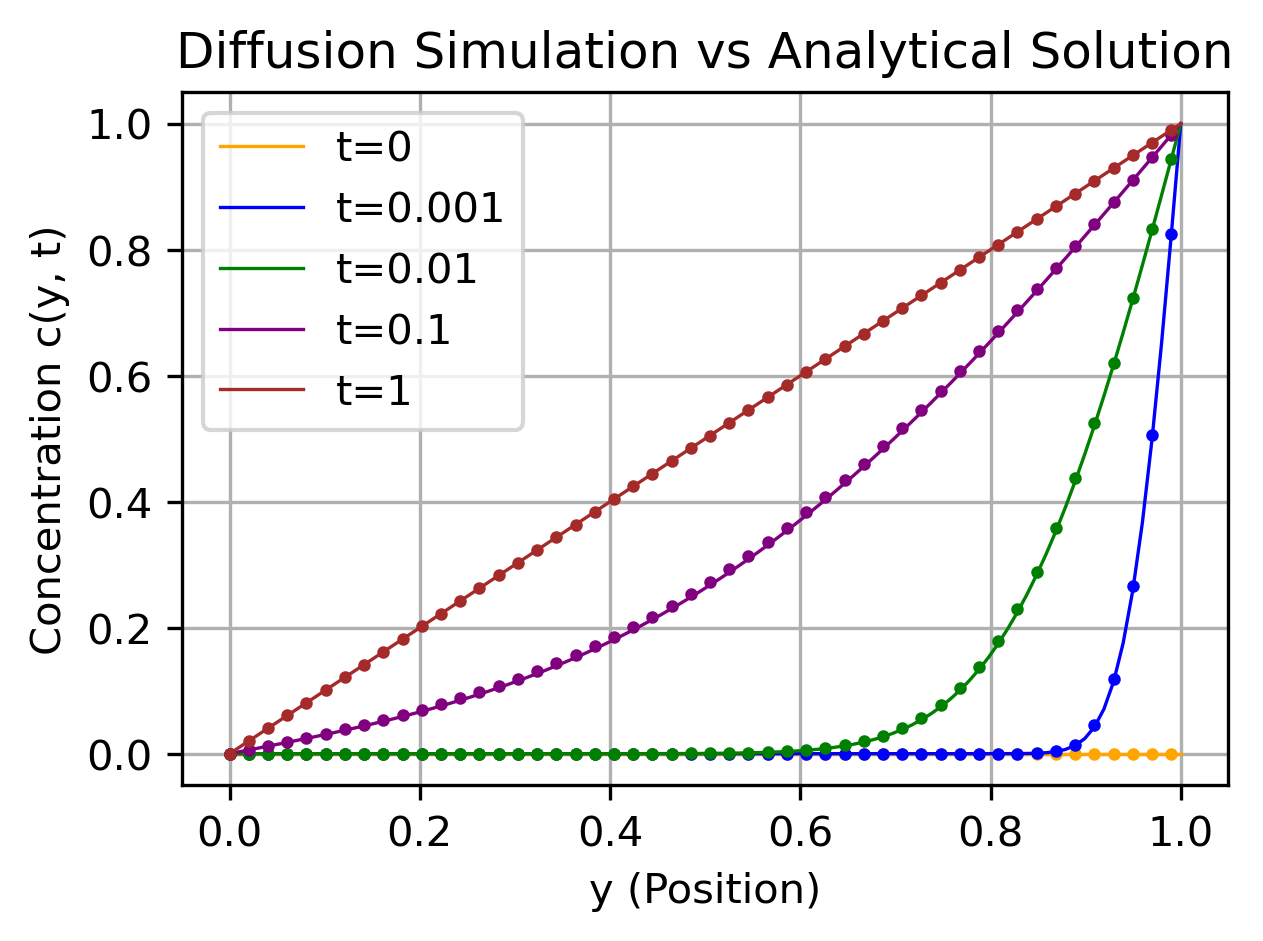
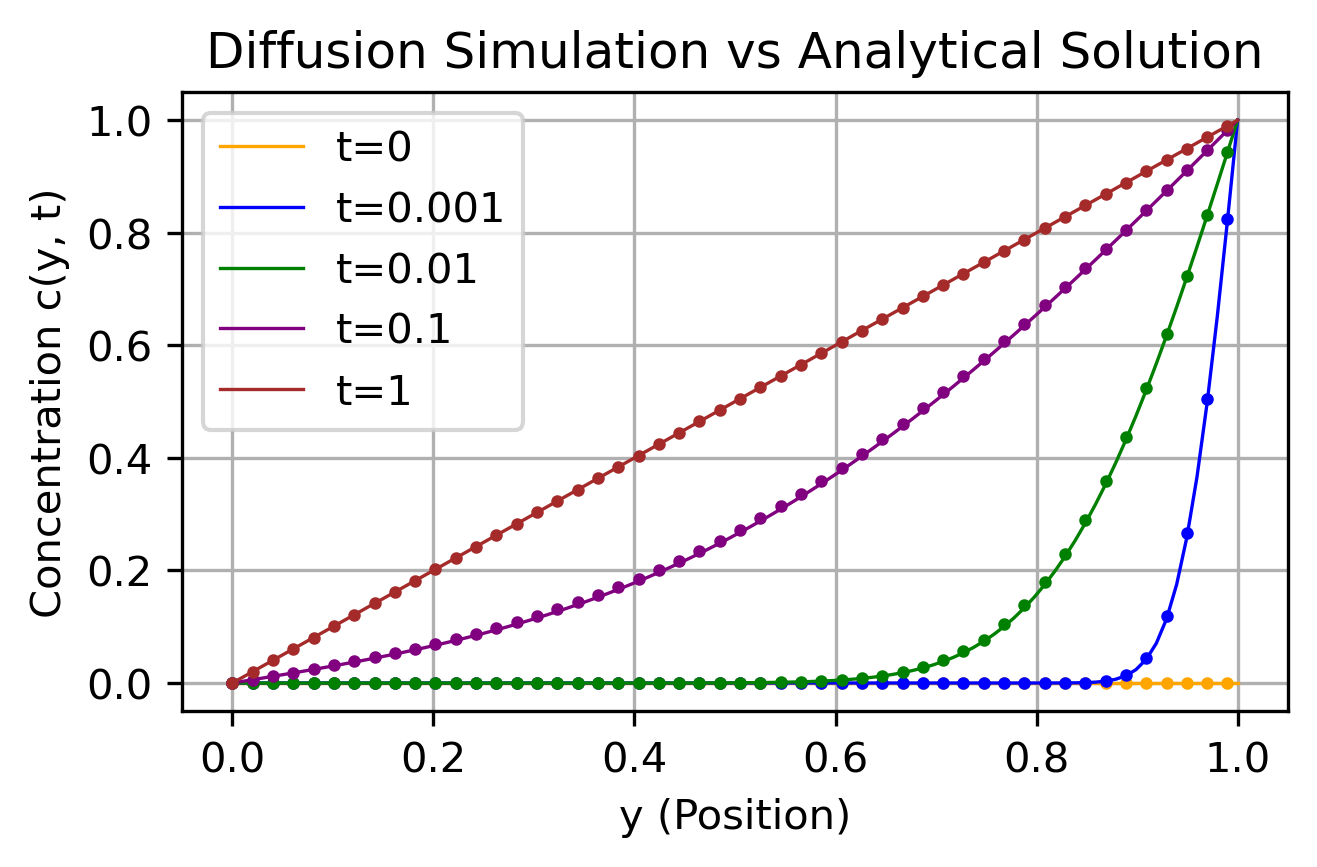
Added error plot

diff --git a/src/visualizations.py b/src/visualizations.py
@@ -10,27 +10,26 @@ from matplotlib.animation import FuncAnimation
 
 
 def visualization_1b(overall_solutions, xs):
-    fig, axs = plt.subplots(1, 3, figsize=(5.3,2.5), sharey=True)
+    fig, axs = plt.subplots(1, 3, figsize=(5.3, 2.5), sharey=True)
 
     for j in range(len(overall_solutions)):
         for k in range(len(overall_solutions[j])):
             axs[j].plot(xs, overall_solutions[j][k], linewidth=0.9)
         axs[j].set_xlabel("x")
-        axs[j].set_title('i'*(j+1))
-   
-    axs[0].set_ylabel(r'$\Psi^n$', labelpad=1)
+        axs[j].set_title("i" * (j + 1))
+
+    axs[0].set_ylabel(r"$\Psi^n$", labelpad=1)
     axs[0].yaxis.set_label_coords(-0.22, 0.5)
 
     fig.suptitle("Wave Time-stepping Approximation")
     plt.tight_layout()
-    plt.subplots_adjust(wspace=0.08, top=0.8) 
+    plt.subplots_adjust(wspace=0.08, top=0.8)
     plt.savefig("plots/fig_1B.png", dpi=300)
     plt.show()
 
 
 def animate_1c(L, N, c, deltat):
-
-    fig, axs = plt.subplots(1, 3, figsize=(5.3,2.5), sharey=True)
+    fig, axs = plt.subplots(1, 3, figsize=(5.3, 2.5), sharey=True)
     # ax.set_title(f"Wave Time-stepping Approximation (frame: 1)")
     # functions = [
     # r"$\sin(2\pi x)$",
@@ -40,15 +39,15 @@ def animate_1c(L, N, c, deltat):
     fig.suptitle("Wave Time-Stepping Animation")
     all_soltjes = []
     for j in range(3):
-        soltjes, xs, deltax = solutions.initialize_wave(j+1, L, N)
+        soltjes, xs, deltax = solutions.initialize_wave(j + 1, L, N)
         all_soltjes.append(soltjes)
-        axs[j].plot(xs, all_soltjes[j][1]) 
+        axs[j].plot(xs, all_soltjes[j][1])
         # axs[j].set_title(functions[j])
-        axs[j].set_title('i'*(j+1))
+        axs[j].set_title("i" * (j + 1))
         axs[j].set_xlabel("x")
-   
-    axs[0].set_ylabel(r'$\Psi$')
-    
+
+    axs[0].set_ylabel(r"$\Psi$")
+
     plt.tight_layout()  # Prevent overlap
     fig.subplots_adjust(top=0.8)  # Move suptitle higher
     plt.pause(1)
@@ -61,63 +60,96 @@ def animate_1c(L, N, c, deltat):
             axs[i].set_xlim(0, L)  # Set x-axis limits
             axs[i].set_ylim(-1, 1)  # Set y-axis limits
             # axs[i].set_title(functions[i])
-            axs[i].set_title('i'*(i+1))
+            axs[i].set_title("i" * (i + 1))
             for _ in range(10):
                 soltjes = solutions.wave_step_function(soltjes, c, xs, deltax, deltat)
             all_soltjes[i] = soltjes
-            axs[i].plot(xs, soltjes[1]) 
+            axs[i].plot(xs, soltjes[1])
             axs[i].set_xlabel("x")
-   
-        axs[0].set_ylabel(r'$\Psi$')
 
-    
+        axs[0].set_ylabel(r"$\Psi$")
+
     animation = FuncAnimation(fig, animate, frames=300, interval=1)
-    animation.save("plots/network_animation10.gif", fps=50,  writer="ffmpeg")
-    plt.show()   
+    animation.save("plots/network_animation10.gif", fps=50, writer="ffmpeg")
+    plt.show()
 
 
-def plot_analytical_solution(y, solutions_vals, times, D):
+def plot_analytical_solution_with_error(y, solution_vals, times, D):
     """
-    Funcion comparing analytical solution to numerical solution. 
-    Plotting points for numerical solution and line for analytical soltution 
+    Funcion comparing analytical solution to numerical solution.
+    Plotting points for numerical solution and line for analytical soltution
     """
     nx = 100
     y_analytic = np.linspace(0.0, 1.0, nx)
 
-    plt.figure(figsize=(4.5, 3))
+    # plt.figure(figsize=(4.5, 3))
+
+    fig1, ax1 = plt.subplots(figsize=(4.5, 3))
+    fig2, ax2 = plt.subplots(figsize=(4.5, 3))
     colors = ["orange", "blue", "green", "purple", "brown"]
 
     for i, t_val in enumerate(times):
         # Analytical
-        c_analytical = [solutions.analytical_solution(yy, t_val, D=D) for yy in y_analytic]
-        plt.plot(y_analytic, c_analytical, color = colors[i], linewidth=0.8, label=f"t={t_val:.3g}")
+        c_analytical = [
+            solutions.analytical_solution(yy, t_val, D=D) for yy in y_analytic
+        ]
+        ax1.plot(
+            y_analytic,
+            c_analytical,
+            color=colors[i],
+            linewidth=0.8,
+            label=f"t={t_val:.3g}",
+        )
 
         c_analytical = np.array(c_analytical)
 
         # mean of the row (should theoretically all be the same)
-        c2D = solutions_vals[i]
-        # c_avg = np.mean(c2D, axis=1)
-        c_first = c2D[:, 0]  
+        c2D = solution_vals[i]
+        c_first = c2D[:, 0]
+        c_first = np.array(c_first)
+
+        # Absolute error
+        pointwise_diff = np.abs(c_first - c_analytical)
 
         # slice array to avoid clutteredness
-        plt.plot(y[::2], c_first[::2], "o", color = colors[i], markersize=2)
+        ax1.plot(y[::2], c_first[::2], "o", color=colors[i], markersize=2)
 
-    plt.xlabel("y (Position)")
-    plt.ylabel("Concentration c(y, t)")
-    plt.legend()
-    plt.title("Diffusion Simulation vs Analytical Solution")
-    plt.grid(True)
-    plt.savefig("plots/diffusion_analytical.png", dpi=300, bbox_inches="tight")
+        ax2.plot(
+            y[::2],
+            pointwise_diff[::2],
+            "o",
+            label=f"t={t_val}",
+            color=colors[i],
+            markersize=2,
+        )
+
+    ax1.set_xlabel("y (Position)")
+    ax1.set_ylabel("Concentration c(y, t)")
+    ax1.legend()
+    ax1.set_title("Diffusion Simulation vs Analytical Solution")
+    ax1.grid(True)
+    fig1.tight_layout()
+    fig1.savefig("plots/diffusion_analytical.png", dpi=300, bbox_inches="tight")
+
+    ax2.set_xlabel("y (Position)")
+    ax2.set_ylabel("Absolute error")
+    ax2.legend()
+    ax2.set_ylim(0, 0.008)
+    ax2.set_title("Error Simulation and Analytical Solution")
+    ax2.grid(True)
+    fig2.tight_layout()
+    fig2.savefig("plots/diffusion_analytical_error.png", dpi=300, bbox_inches="tight")
+
     plt.show()
 
 
 def plot_five_states(all_c, times):
     """
-    function plotting the 2D diffustion grid, 
+    function plotting the 2D diffustion grid,
     5 states for t = 0, 0.001, 0.01, 0.1, 1.0
     """
 
-    # # read in/ generate data 
+    # # read in/ generate data
     # data_file = "2D_diffusion.pkl"
     # create_new_data = False
     # all_c, times = solutions.check_and_parse_data(data_file, create_new_data, parameters)
@@ -125,18 +157,20 @@ def plot_five_states(all_c, times):
     # plot setup
     fig, axs = plt.subplots(2, 3, figsize=(5.8, 4.3), sharex=True, sharey=True)
     fig.suptitle("2D Diffusion at Different t Values")
-    axs = axs.flatten()  
+    axs = axs.flatten()
 
     # Hide the last unused subplot
-    axs[-1].set_visible(False)  
+    axs[-1].set_visible(False)
     for i in range(5):
-        im = axs[i].imshow(all_c[i], cmap="viridis", interpolation="nearest", origin="lower")
+        im = axs[i].imshow(
+            all_c[i], cmap="viridis", interpolation="nearest", origin="lower"
+        )
         axs[i].set_title(f"t = {times[i]}")
-        if i >1: 
+        if i > 1:
             axs[i].set_xlabel("x")
 
     # set proper ticks and labels
-    axs[2].xaxis.set_tick_params(which='both', labelbottom=True)
+    axs[2].xaxis.set_tick_params(which="both", labelbottom=True)
     axs[0].set_ylabel("y")
     axs[3].set_ylabel("y")
 
@@ -144,9 +178,10 @@ def plot_five_states(all_c, times):
     fig.colorbar(im, cax=cbar_ax, label="Concentration")
 
     plt.tight_layout(rect=[0, 0, 0.93, 1])
-    plt.subplots_adjust(wspace=0.05, hspace=0.2) 
+    plt.subplots_adjust(wspace=0.05, hspace=0.2)
     plt.savefig("plots/diffusion_snapshots.png", dpi=300)
     plt.show()
+
 
 def plot_simulation_without_animation(grids, N):
     fig, ax = plt.subplots(figsize=(7, 7))
@@ -190,22 +225,29 @@ def animate_2f(update_func, grid, num_steps, N, gamma, dt, interval=50):
     return animation
 
 
-def visualization_1i(p_values, iterations_jacobi, iterations_gauss_seidel, iterations_sor, colors):
-
+def visualization_1i(
+    p_values, iterations_jacobi, iterations_gauss_seidel, iterations_sor, colors
+):
     plt.figure(figsize=(5.3, 2.5))
-    
-    linestyles = ['dotted', 'dashed', 'dashdot']
+
+    linestyles = ["dotted", "dashed", "dashdot"]
     num_styles = len(linestyles)
 
     plt.plot(p_values, iterations_jacobi, color=colors[0], label="Jacobi")
     plt.plot(p_values, iterations_gauss_seidel, color=colors[1], label="Gauss-Seidel")
 
     for i, (omega, sor_iterations) in enumerate(iterations_sor.items()):
-        plt.plot(p_values, sor_iterations, label=f"SOR (ω={omega})", color=colors[2], linestyle=linestyles[i % num_styles])
+        plt.plot(
+            p_values,
+            sor_iterations,
+            label=f"SOR (ω={omega})",
+            color=colors[2],
+            linestyle=linestyles[i % num_styles],
+        )
 
     # plt.plot(p_values, iterations_sor, color=colors[2], label="Successive Over Relaxation")
-    plt.xlabel(r'$p$', fontsize=14)
-    plt.ylabel('Iterations', fontsize=14)
+    plt.xlabel(r"$p$", fontsize=14)
+    plt.ylabel("Iterations", fontsize=14)
     plt.xticks(fontsize=12)
     plt.yticks(fontsize=12)
     plt.legend(fontsize=10, loc="upper left")
@@ -214,33 +256,39 @@ def visualization_1i(p_values, iterations_jacobi, iterations_gauss_seidel, itera
     plt.savefig("plots/fig_1i.png", dpi=300, bbox_inches="tight")
     plt.show()
 
+
 # 1ja
 def visualization_1j_omega_iters(iters_N, omega_range, colors):
-
     plt.figure(figsize=(5.3, 3.6))
 
-    linestyles = ['dotted', 'dashed', 'dashdot']
+    linestyles = ["dotted", "dashed", "dashdot"]
     num_styles = len(linestyles)
 
     for i, (N, iters) in enumerate(iters_N.items()):
-        plt.plot(omega_range, iters, label=f"N = {N}", color=colors[2],  linestyle=linestyles[i % num_styles])
+        plt.plot(
+            omega_range,
+            iters,
+            label=f"N = {N}",
+            color=colors[2],
+            linestyle=linestyles[i % num_styles],
+        )
 
-    plt.xlabel(r'$\omega$', fontsize=14)
-    plt.yscale('log')
-    plt.ylabel('Iterations', fontsize=14)
+    plt.xlabel(r"$\omega$", fontsize=14)
+    plt.yscale("log")
+    plt.ylabel("Iterations", fontsize=14)
     plt.legend(fontsize=10, loc="upper left")
     plt.title("SOR Convergence Speed vs. ω", fontsize=14)
     plt.grid(True)
     plt.savefig("plots/fig_1ja.png", dpi=300, bbox_inches="tight")
     plt.show()
 
+
 # 1jb
 def visualization_1j_N_omegas(N_values, optimal_omegas, colors):
-
     plt.figure(figsize=(5.3, 2.5))
-    plt.plot(N_values, optimal_omegas, marker='o', linestyle='-', color=colors[2])
-    plt.xlabel('Grid Size N', fontsize=14)
-    plt.ylabel('Optimal ω', fontsize=14)
+    plt.plot(N_values, optimal_omegas, marker="o", linestyle="-", color=colors[2])
+    plt.xlabel("Grid Size N", fontsize=14)
+    plt.ylabel("Optimal ω", fontsize=14)
     plt.title("Optimal ω vs. Grid Size N", fontsize=14)
     plt.grid(True)
     plt.savefig("plots/fig_1jb.png", dpi=300, bbox_inches="tight")

diff --git a/src/1_2_testing.py b/src/1_2_testing.py
@@ -216,6 +216,73 @@ def run_simulation_with_animation():
 
         return sum_val
 
+    def plot_with_error(y, solutions, times, D):
+        """
+        Funcion comparing analytical solution to numerical solution.
+        Plotting points for numerical solution and line for analytical soltution
+        """
+        nx = 100
+        y_analytic = np.linspace(0.0, 1.0, nx)
+
+        # plt.figure(figsize=(4.5, 3))
+
+        fig1, ax1 = plt.subplots(figsize=(4.5, 3))
+        fig2, ax2 = plt.subplots(figsize=(4.5, 3))
+        colors = ["orange", "blue", "green", "purple", "brown"]
+
+        for i, t_val in enumerate(times):
+            # Analytical
+            c_analytical = [analytical_solution(yy, t_val, D=D) for yy in y_analytic]
+            ax1.plot(
+                y_analytic,
+                c_analytical,
+                color=colors[i],
+                linewidth=0.8,
+                label=f"t={t_val:.3g}",
+            )
+
+            c_analytical = np.array(c_analytical)
+
+            # mean of the row (should theoretically all be the same)
+            c2D = solutions[i]
+            c_first = c2D[:, 0]
+            c_first = np.array(c_first)
+
+            # Absolute error
+            pointwise_diff = np.abs(c_first - c_analytical)
+
+            # slice array to avoid clutteredness
+            ax1.plot(y[::2], c_first[::2], "o", color=colors[i], markersize=2)
+
+            ax2.plot(
+                y[::2],
+                pointwise_diff[::2],
+                "o",
+                label=f"t={t_val}",
+                color=colors[i],
+                markersize=2,
+            )
+
+        ax1.set_xlabel("y (Position)")
+        ax1.set_ylabel("Concentration c(y, t)")
+        ax1.legend()
+        ax1.set_title("Diffusion Simulation vs Analytical Solution")
+        ax1.grid(True)
+        fig1.tight_layout()
+        # fig1.savefig("plots/diffusion_analytical.png", dpi=300, bbox_inches="tight")
+
+        ax2.set_xlabel("y (Position)")
+        ax2.set_ylabel("Absolute error")
+        ax2.legend()
+        ax2.set_title("Error Simulation and Analytical Solution")
+        ax2.grid(True)
+        fig2.tight_layout()
+        # fig2.savefig(
+        #     "plots/diffusion_analytical_error.png", dpi=300, bbox_inches="tight"
+        # )
+
+        plt.show()
+
     def plot_analytical_solution(y, solutions, times, D):
         nx = 100
         y_analytic = np.linspace(0.0, 1.0, nx)
@@ -256,11 +323,11 @@ def run_simulation_with_animation():
     y_values = np.linspace(0, 1, N)
 
     # Plot simulation results vs analytical solution
-    # plot_analytical_solution(y_values, all_c, times, D)
-    animate_2f(update, c, num_steps, N, gamma, dt)
+    plot_with_error(y_values, all_c, times, D)
+    # animate_2f(update, c, num_steps, N, gamma, dt)
 
 
-# run_simulation_without_animation()
+#   run_simulation_without_animation()
 
 
 def plot_five_states():
